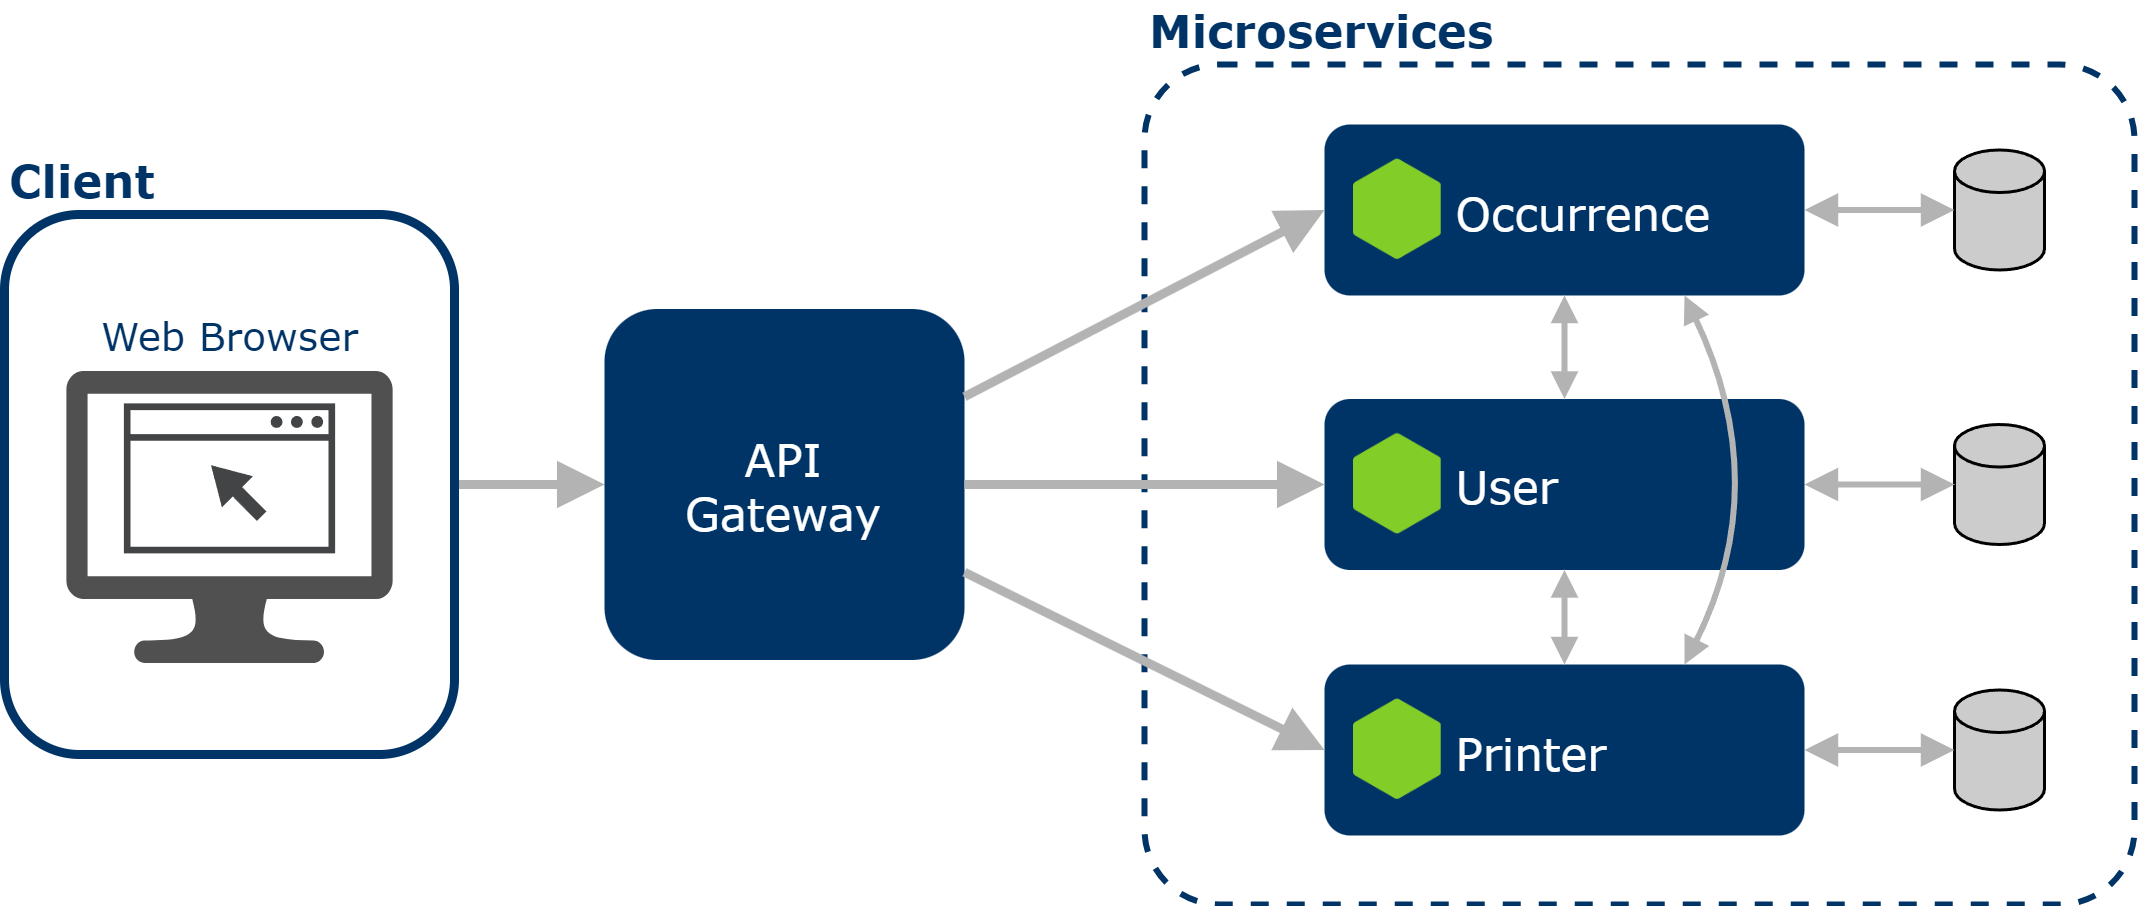
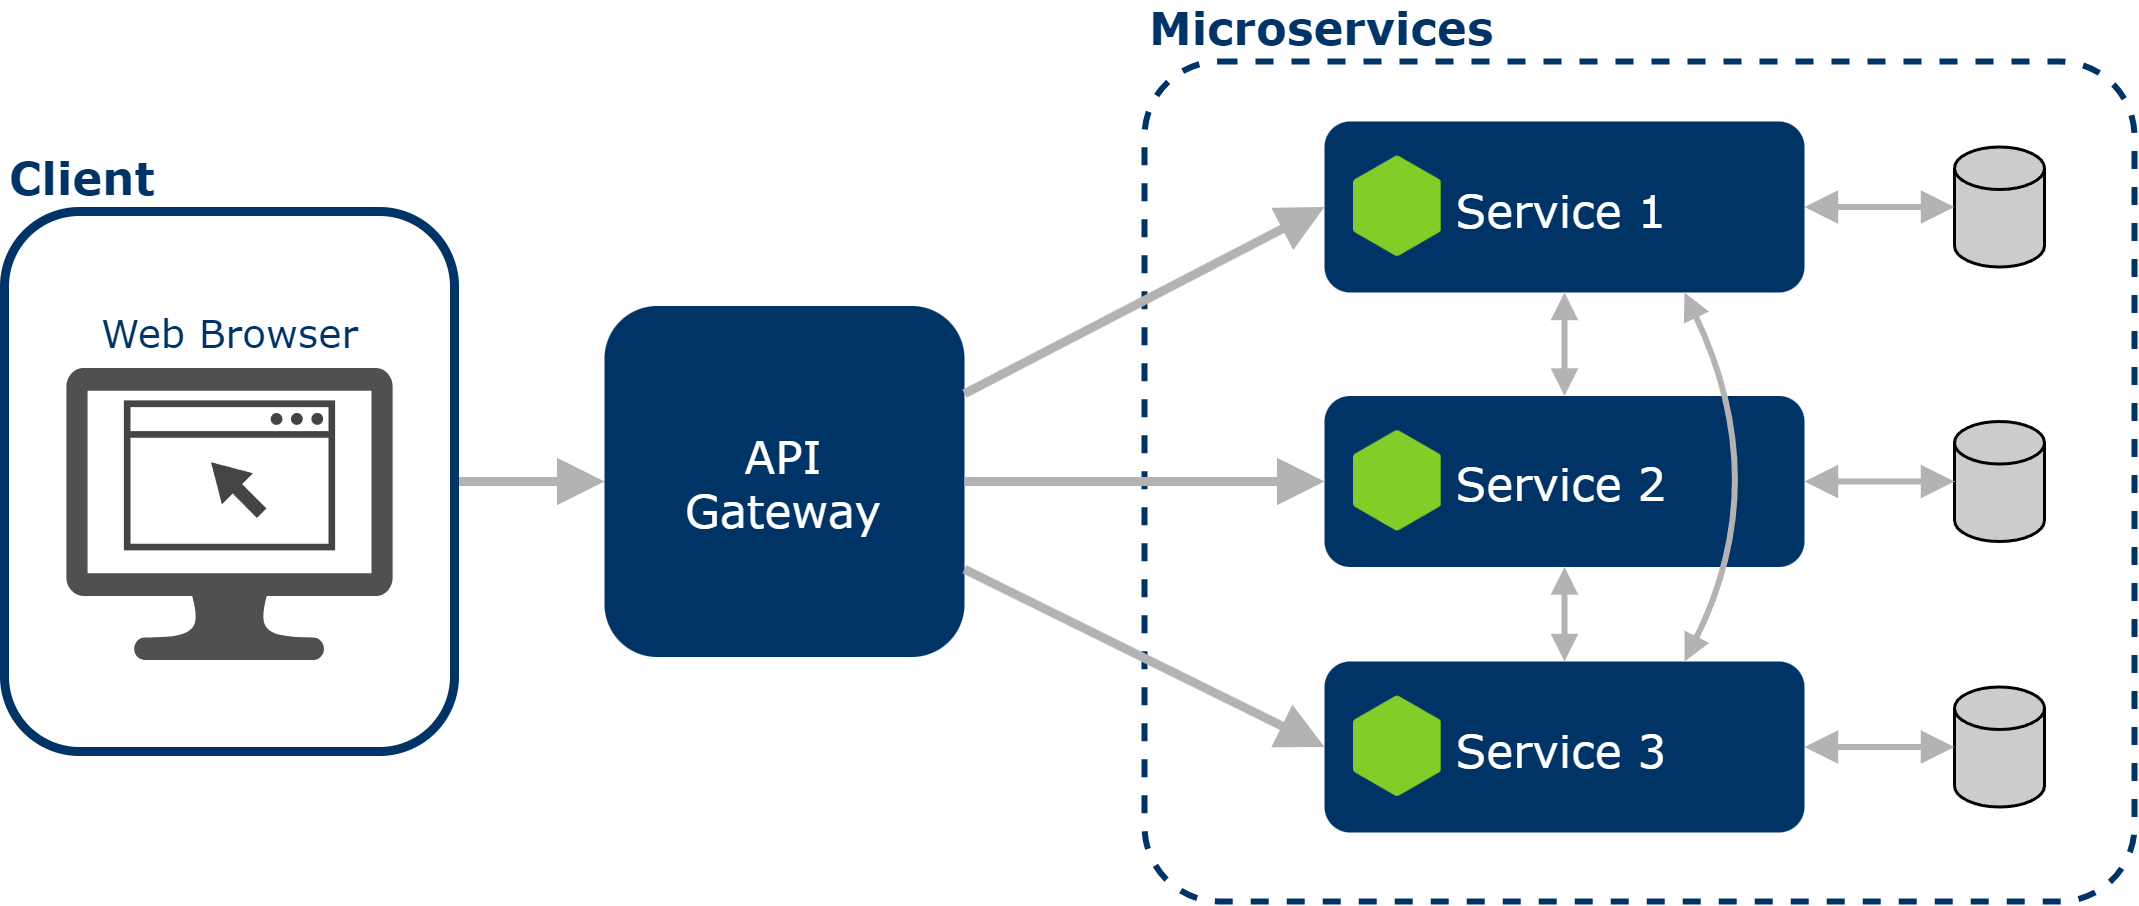
docs[arquitetura]: adiciona novo serviço e melhora diagrama de arquitetura

diff --git a/docs/documentos-projeto/arquitetura.md b/docs/documentos-projeto/arquitetura.md
@@ -17,6 +17,7 @@ O sistema possui três microsserviços:
 - User: Responsável por gerenciar usuários da aplicação.
 - Printer: Realiza o gerenciamento de impressoras e impressões.
 - Occurrence: Gerencia ocorrências.
+- Contract: Gerencia dados de contratos.
 
 #### Interface de Usuário
 
@@ -62,3 +63,4 @@ PostgreSQL é um sistema de banco de dados relacional de código aberto conhecid
 |**Data**|**Descrição**|**Autor(es)**|
 |:-:|---|---|
 | 14/07/2024 | Criação do Documento | Lucas Braun |
+| 22/07/2024 | Corrige diagrama e serviços | Lucas Braun |
